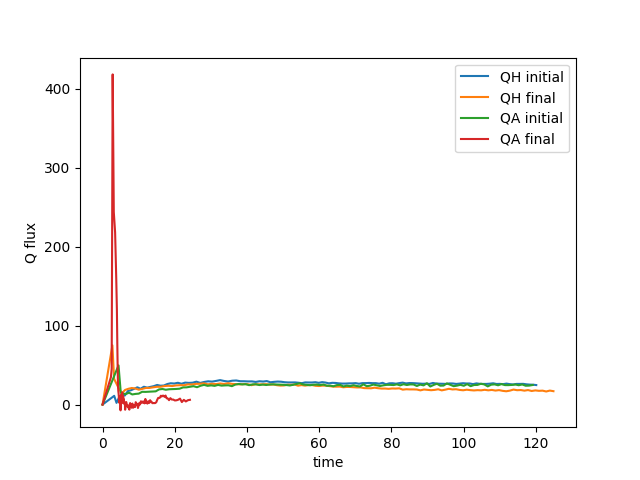
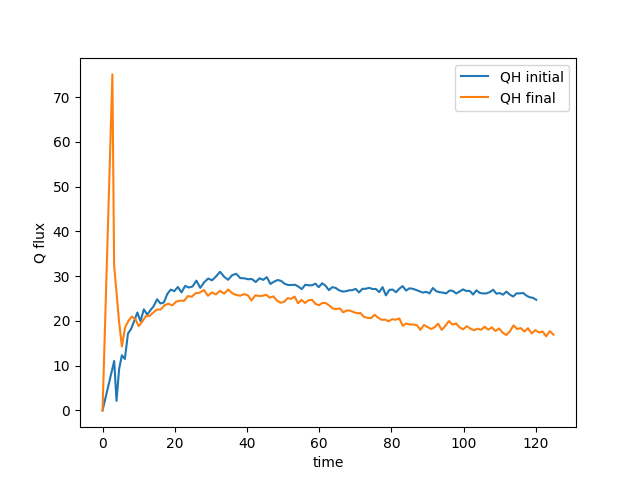
GX nonlinear sims

diff --git a/GX_SIMSOPT/plot_nonlinear.py b/GX_SIMSOPT/plot_nonlinear.py
@@ -6,9 +6,9 @@ from pathlib import Path
 import matplotlib.pyplot as plt
 this_path = Path(__file__).parent.resolve()
 
-file_labels = ['QH initial','QH final','QA initial','QA final']
-folders = ['nonlinear_nfp4_QH_initial_LN1.0_LT3.0','nonlinear_nfp4_QH_final_LN1.0_LT3.0',
-           'nonlinear_nfp2_QA_initial_LN1.0_LT3.0','nonlinear_nfp2_QA_final_LN1.0_LT3.0']
+file_labels = ['QH initial','QH final']#,'QA initial','QA final']
+folders = ['nonlinear_nfp4_QH_initial_LN1.0_LT3.0','nonlinear_nfp4_QH_final_LN1.0_LT3.0']
+          #,'nonlinear_nfp2_QA_initial_LN1.0_LT3.0','nonlinear_nfp2_QA_final_LN1.0_LT3.0']
 
 file_suffix = 'nzgrid125_npol4_nstep200000_dt0.2_ln1.0_lt3.0_nhermite16_nlaguerre8_nu_hyper0.5_D_hyper0.05_ny80_nx140_y012.0.nc'
 
